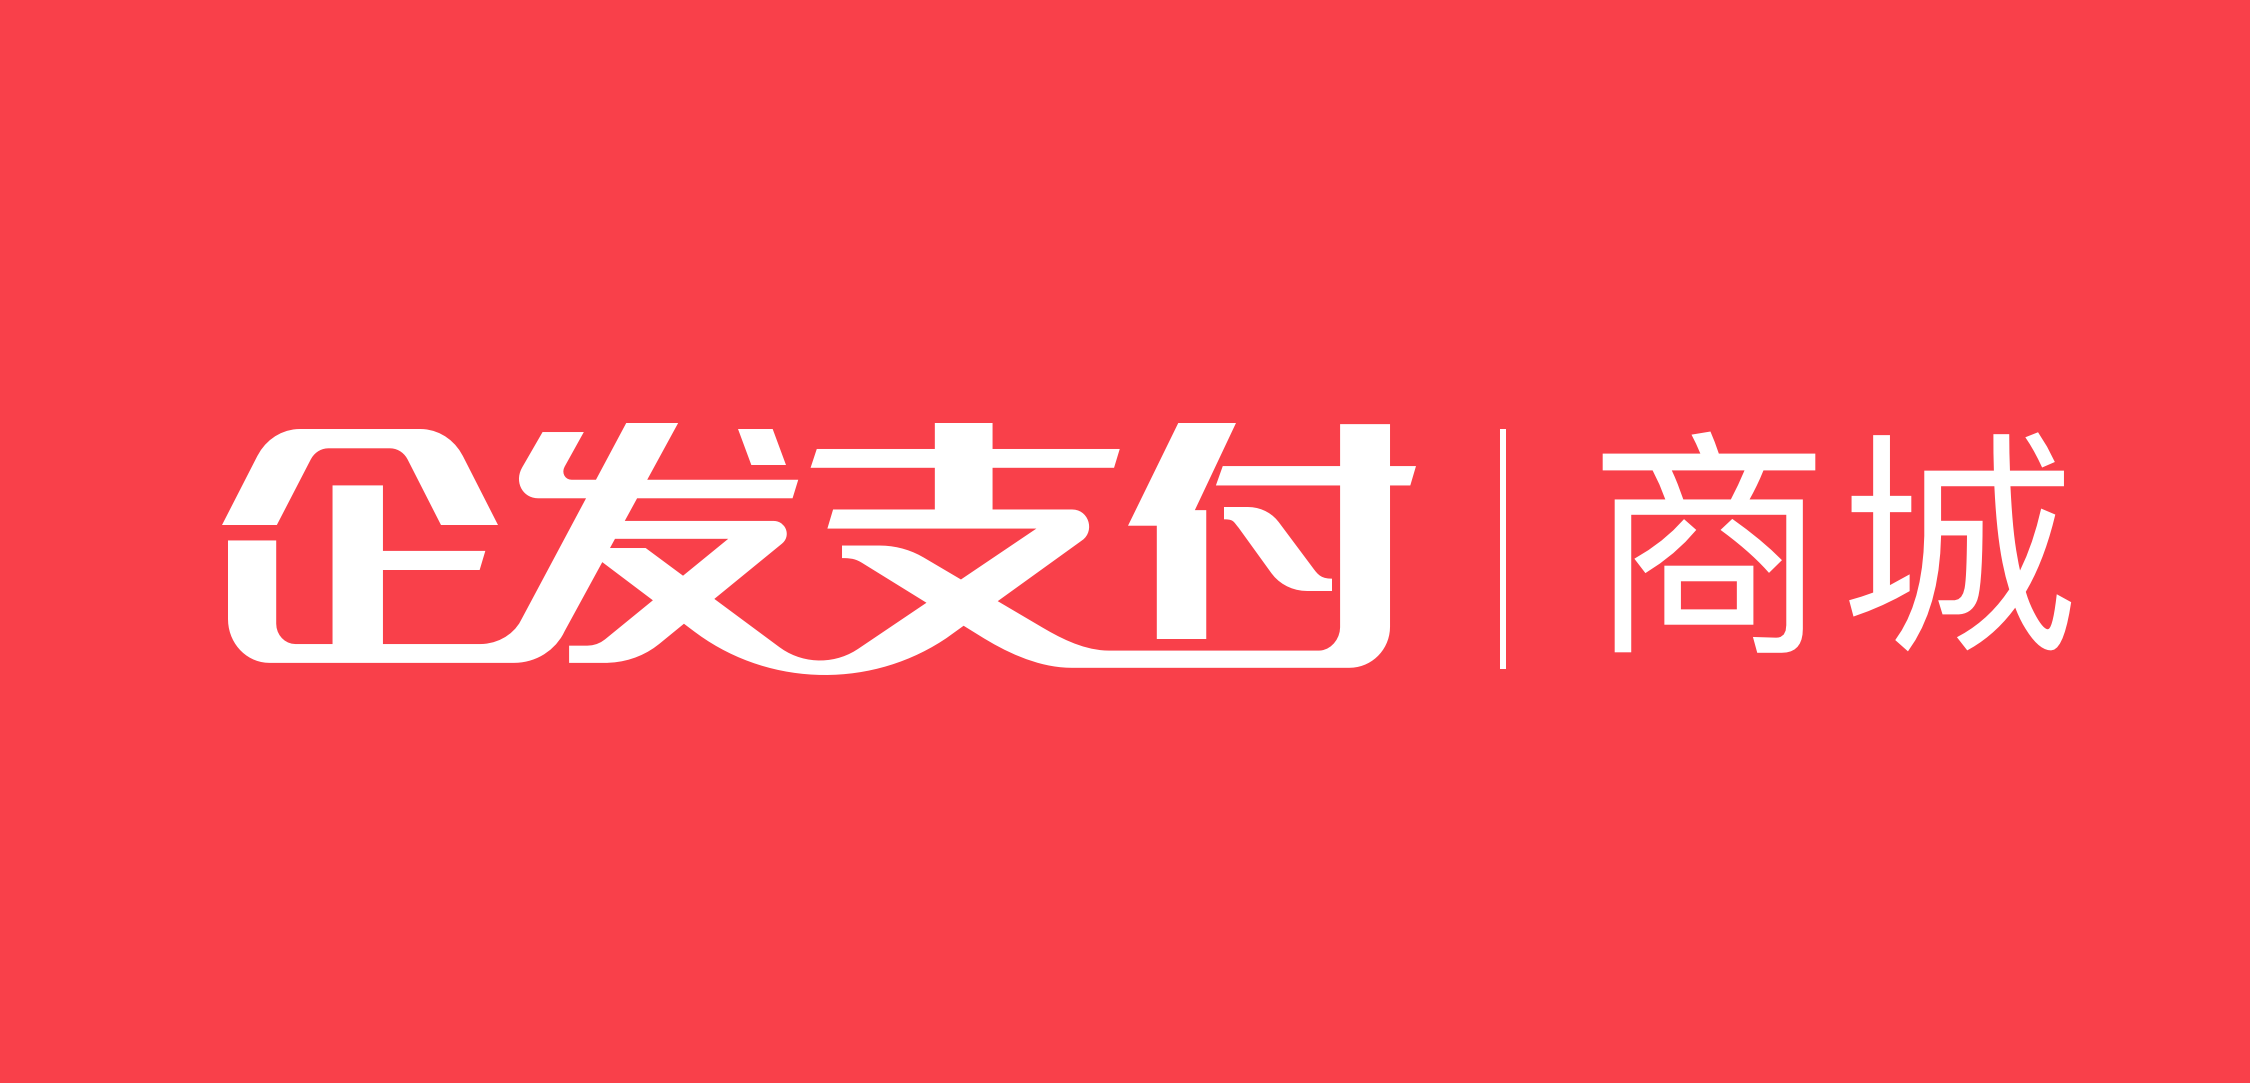
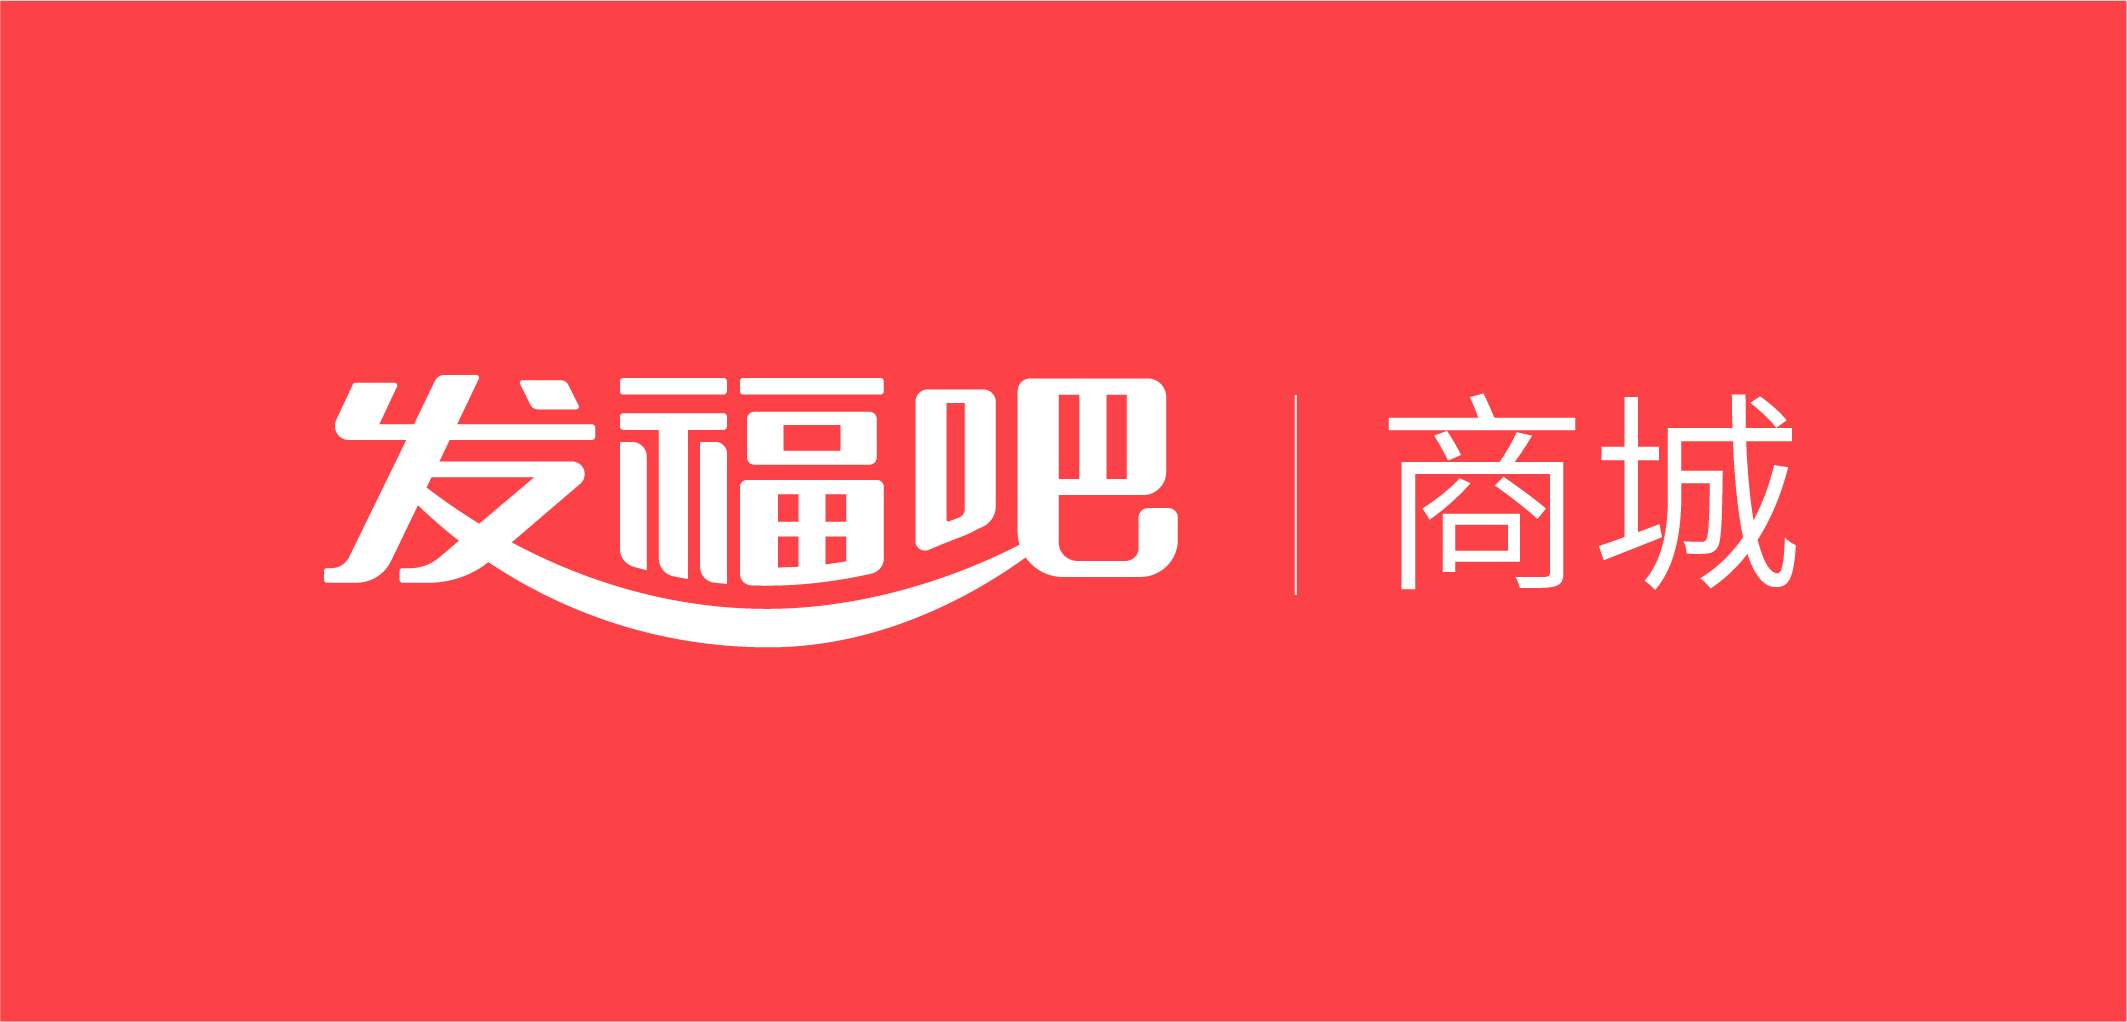
优化支付调用，更改企发支付为发福吧

Changed region(s): [[0.0931, 0.364, 0.9309, 0.637]]

diff --git a/src/permission.js b/src/permission.js
@@ -14,7 +14,7 @@ router.beforeEach((to, from, next) => {
       next({ path: '/home' })
       NProgress.done()
     } else {
-      if (store.getters.roles.length === 0) {
+      if (store.getters.quota.length === 0) {
         store.dispatch('GetUserInfo').then(req => {
           // next({ ...to })
           if (!req.data.success) {
